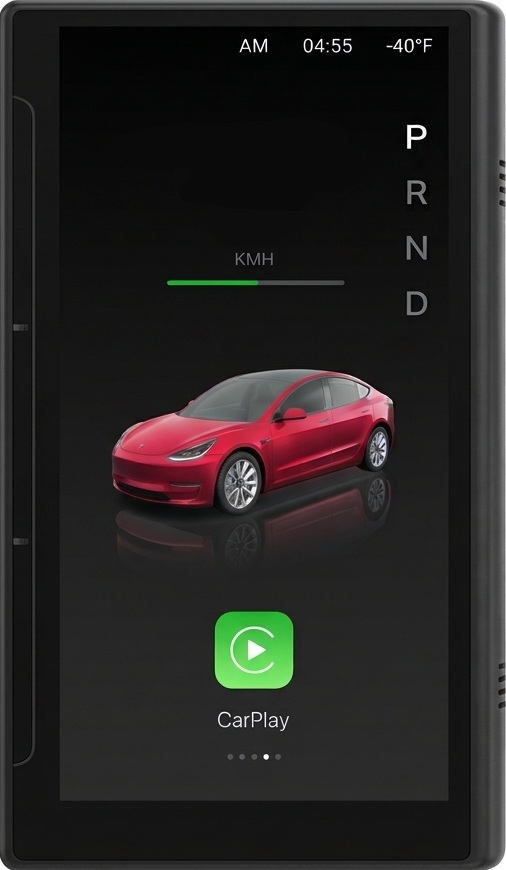
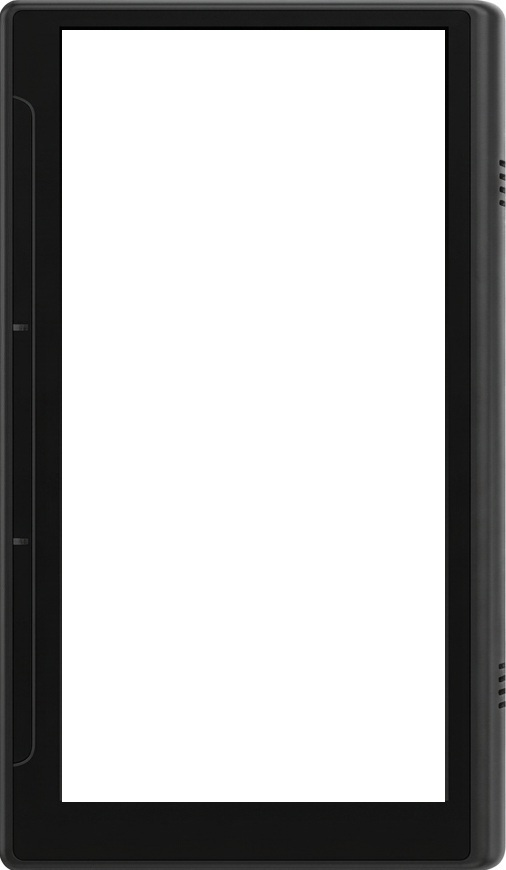
CambiarPantalla

diff --git a/Assets/Scripts/UI/CanvasPantalla.cs b/Assets/Scripts/UI/CanvasPantalla.cs
@@ -1,0 +1,39 @@
+using UnityEngine;
+using UnityEngine.UI;
+
+public class CanvasPantalla : MonoBehaviour
+{
+    public Image Image;
+    public Sprite pantallaDefault;
+    public Sprite pantallaVacia;
+    public bool isPantallaVacia = false;
+
+    // Start is called once before the first execution of Update after the MonoBehaviour is created
+    void Start()
+    {
+        
+    }
+
+    // Update is called once per frame
+    void Update()
+    {
+        if (Input.GetKeyDown(KeyCode.P))
+        {
+            CambiarPantalla();
+        }
+    }
+    void CambiarPantalla()
+    {
+        if (isPantallaVacia)
+        {
+            // Cambiar la pantalla a pantallaDefault
+            Image.sprite = pantallaDefault;
+        }
+        else if (!isPantallaVacia)
+        {
+            // Cambiar la pantalla a pantallaVacia
+            Image.sprite = pantallaVacia;
+        }
+        isPantallaVacia = !isPantallaVacia;
+    }
+}

diff --git a/Assets/Scripts/minijuegoManager.cs b/Assets/Scripts/minijuegoManager.cs
@@ -18,7 +18,7 @@ public class minijuegoManager : MonoBehaviour
         
     }
     public void CrearMinijuegos()
-    { 
+    {
         int randomMinijuego = Random.Range(0, 3);
         switch (randomMinijuego)
         {
